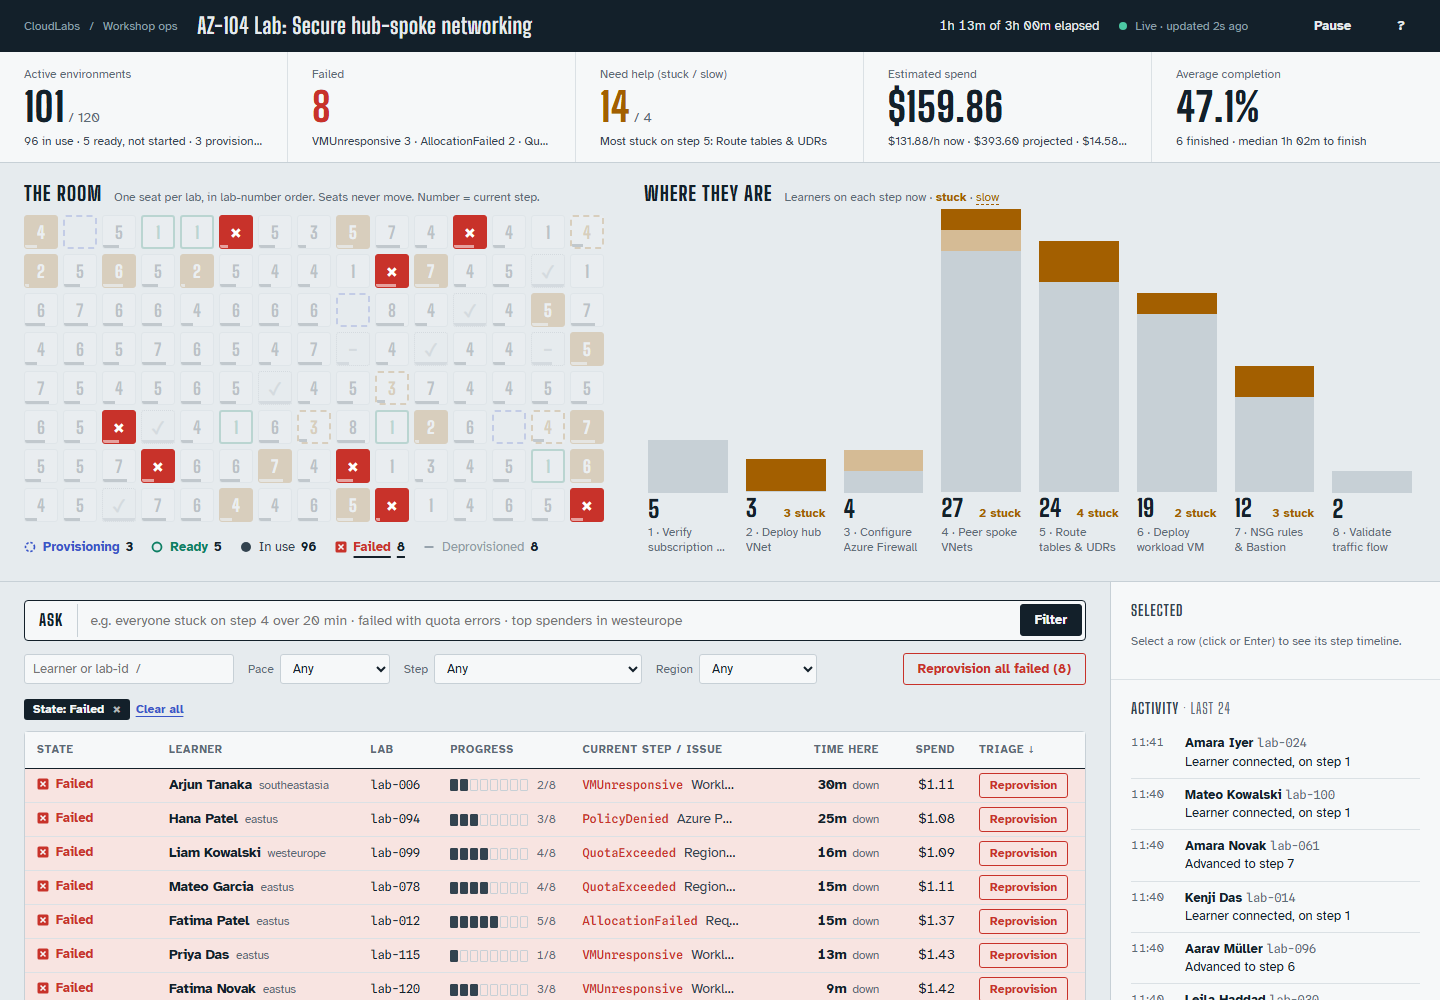
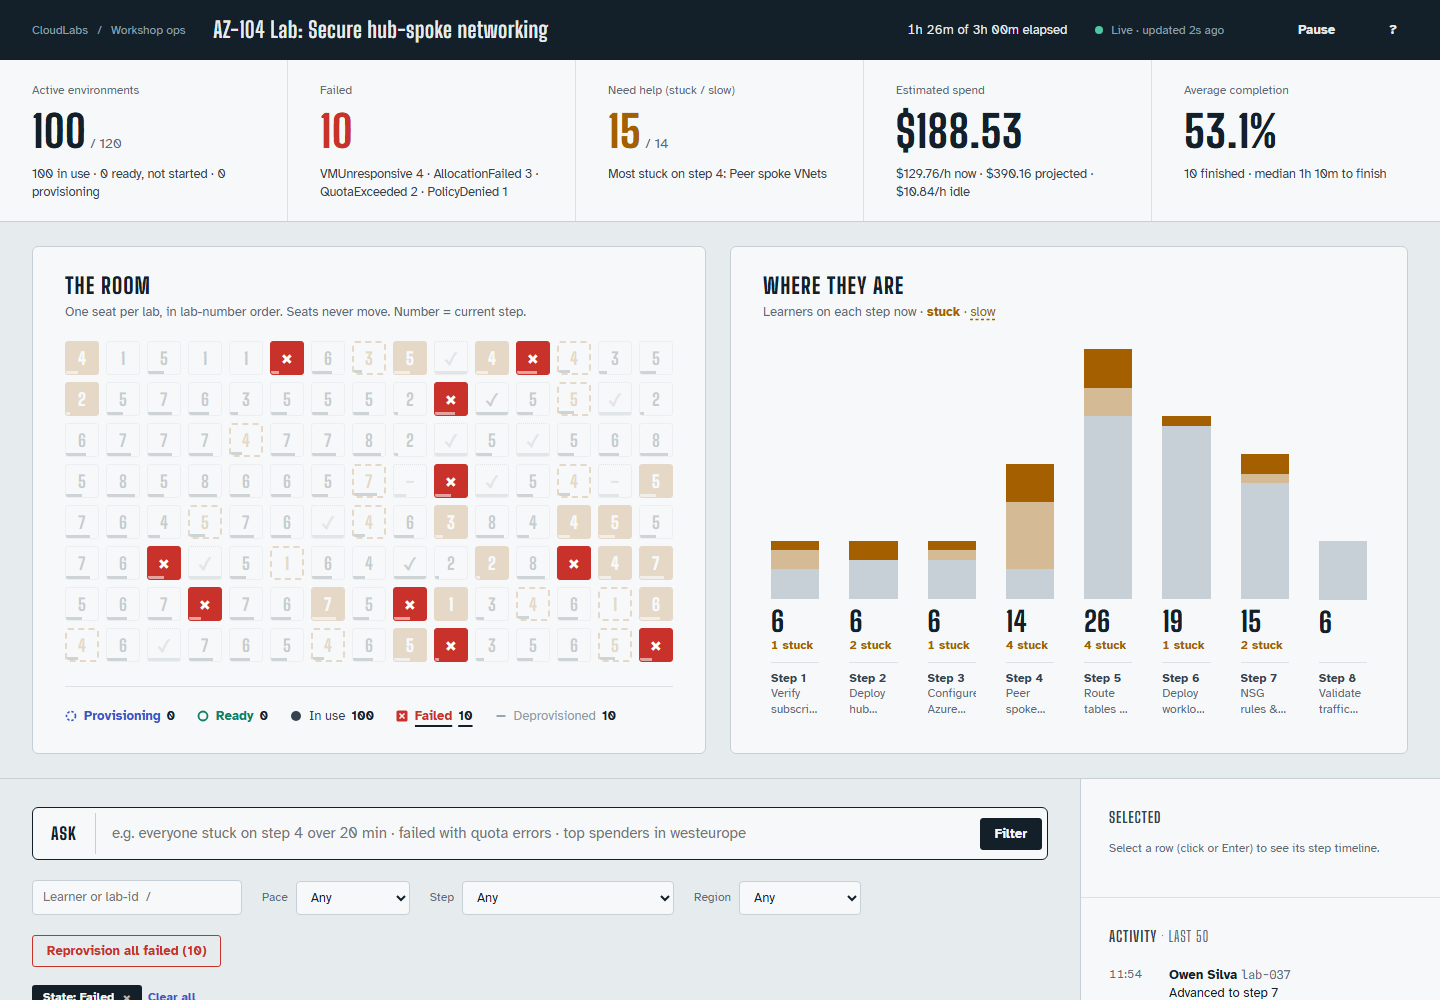
Give the dashboard room to breathe
Spacing tokens for gutters and panel gaps, room and funnel as separate
panels, stacked funnel counts and step labels, wrapping summary lines,
taller table rows, wider side panel, larger seats on wide screens.

Changed region(s): [[0.0, 0.0, 1.0, 1.0], [0.625, 0.93, 0.6562, 0.961]]

diff --git a/public/app.css b/public/app.css
@@ -31,8 +31,10 @@
   --display: "Big Shoulders Display", "Arial Narrow", sans-serif;
   --sans: "Atkinson Hyperlegible", system-ui, "Segoe UI", sans-serif;
   --mono: "Spline Sans Mono", ui-monospace, Consolas, monospace;
-  --top-h: 52px;
-  --row-h: 34px;
+  --top-h: 60px;
+  --row-h: 42px;
+  --gutter: 32px; /* page side padding */
+  --gap: 24px;    /* between panels */
   color-scheme: light;
 }
 @media (prefers-color-scheme: dark) {
@@ -63,15 +65,15 @@ td, .tnum, .clock, .metric, .fnum { font-variant-numeric: tabular-nums; }
 .sec-title, .top h1, .metric .big, .seat .g, .fnum b {
   font-family: var(--display); font-weight: 800; letter-spacing: .01em;
 }
-.sec-head { display: flex; align-items: baseline; gap: 12px; margin-bottom: 10px; flex-wrap: wrap; }
-.sec-title { margin: 0; font-size: 20px; text-transform: uppercase; letter-spacing: .05em; line-height: 1; }
-.sec-note { margin: 0; font-size: 12px; color: var(--muted); }
+.sec-head { display: flex; flex-direction: column; gap: 6px; margin-bottom: 20px; }
+.sec-title { margin: 0; font-size: 22px; text-transform: uppercase; letter-spacing: .05em; line-height: 1; }
+.sec-note { margin: 0; font-size: 13px; color: var(--muted); }
 .eyebrow { margin: 0 0 8px; font-family: var(--display); font-weight: 700; font-size: 15px; text-transform: uppercase; letter-spacing: .06em; color: var(--ink-2); }
 
 /* ---------- header: a dark control strip ---------- */
 .top {
   position: sticky; top: 0; z-index: 6; height: var(--top-h);
-  display: flex; align-items: center; gap: 20px; padding: 0 24px;
+  display: flex; align-items: center; gap: 28px; padding: 0 var(--gutter);
   background: var(--bar); color: var(--bar-ink);
 }
 .brand { font-size: 12px; color: var(--bar-muted); white-space: nowrap; }
@@ -100,13 +102,13 @@ td, .tnum, .clock, .metric, .fnum { font-variant-numeric: tabular-nums; }
 .btn.danger-outline { border-color: var(--s-failed); color: var(--s-failed); background: transparent; }
 .btn.danger-outline:hover { background: var(--s-failed); color: #fff; }
 
-.banner { display: flex; gap: 12px; align-items: center; padding: 10px 24px; font-size: 13px; background: var(--failed-tint); color: var(--s-failed); border-bottom: 1px solid var(--rule); }
+.banner { display: flex; gap: 12px; align-items: center; padding: 12px var(--gutter); font-size: 13px; background: var(--failed-tint); color: var(--s-failed); border-bottom: 1px solid var(--rule); }
 .banner .btn { padding: 2px 10px; }
 
 /* ---------- ledger ---------- */
-.ledger { display: grid; grid-template-columns: repeat(5, minmax(0, 1fr)); background: var(--paper); border-bottom: 1px solid var(--rule); min-height: 92px; }
+.ledger { display: grid; grid-template-columns: repeat(5, minmax(0, 1fr)); background: var(--paper); border-bottom: 1px solid var(--rule); min-height: 120px; }
 .metric {
-  display: flex; flex-direction: column; gap: 2px; min-width: 0; padding: 14px 24px 12px;
+  display: flex; flex-direction: column; gap: 4px; min-width: 0; padding: 22px var(--gutter) 20px;
   border: 0; border-right: 1px solid var(--rule-soft); background: none; font: inherit; color: inherit; text-align: left;
 }
 .metric:last-child { border-right: 0; }
@@ -114,18 +116,20 @@ button.metric { cursor: pointer; }
 button.metric:hover { background: var(--fog); }
 button.metric:hover .m-label::after { content: "  → filter"; color: var(--focus); }
 .metric .m-label { font-size: 12px; color: var(--muted); }
-.metric .big { font-size: 40px; line-height: 1; margin: 2px 0 4px; }
+.metric .big { font-size: 44px; line-height: 1; margin: 6px 0 8px; }
 .metric .big small { font-family: var(--sans); font-size: 14px; font-weight: 400; color: var(--muted); letter-spacing: 0; }
-.metric .sub { font-size: 12px; color: var(--ink-2); white-space: nowrap; overflow: hidden; text-overflow: ellipsis; }
+.metric .sub { font-size: 12.5px; line-height: 1.45; color: var(--ink-2); }
 .metric.alert .big { color: var(--s-failed); }
 .metric.warn .big { color: var(--stuck); }
 .metric .big.changed { animation: flash 1.4s ease-out; }
 
 /* ---------- overview: the room + the step funnel ---------- */
-.overview { display: grid; grid-template-columns: auto minmax(0, 1fr); gap: 40px; padding: 20px 24px 22px; border-bottom: 1px solid var(--rule); }
+.overview { display: grid; grid-template-columns: auto minmax(0, 1fr); gap: var(--gap); padding: var(--gap) var(--gutter); }
+.room-wrap, .funnel-wrap { background: var(--paper); border: 1px solid var(--rule); border-radius: 6px; padding: 28px 32px 26px; min-width: 0; }
+.funnel-wrap { display: flex; flex-direction: column; }
 
 /* Signature: the room. 120 seats in fixed lab-number order. */
-.room { display: grid; grid-template-columns: repeat(15, 34px); gap: 5px; }
+.room { display: grid; grid-template-columns: repeat(15, 34px); gap: 7px; }
 .seat {
   position: relative; width: 34px; height: 34px; padding: 0; overflow: hidden; cursor: pointer;
   display: grid; place-items: center; border-radius: 3px;
@@ -150,38 +154,38 @@ button.metric:hover .m-label::after { content: "  → filter"; color: var(--focu
 .seat.changed { animation: flash-outline 1.6s ease-out; }
 @keyframes flash-outline { from { box-shadow: 0 0 0 4px var(--flash); } to { box-shadow: 0 0 0 0 transparent; } }
 
-.statelegend { display: flex; flex-wrap: wrap; gap: 4px 18px; margin-top: 14px; font-size: 13px; }
+.statelegend { display: flex; flex-wrap: wrap; gap: 8px 22px; margin-top: 24px; padding-top: 18px; border-top: 1px solid var(--rule-soft); font-size: 13px; }
 .statelegend button { all: unset; cursor: pointer; display: inline-flex; gap: 6px; align-items: center; padding: 2px 0; color: var(--ink-2); }
 .statelegend button:focus-visible { outline: 2px solid var(--focus); outline-offset: 2px; }
 .statelegend button[aria-pressed="true"] { color: var(--ink); text-decoration: underline 2px; text-underline-offset: 5px; }
 .statelegend b { font-weight: 700; color: var(--ink); }
 
-.funnel { display: grid; grid-template-columns: repeat(8, minmax(0, 1fr)); gap: 10px; align-items: end; height: calc(100% - 30px); min-height: 200px; }
-.fstep { all: unset; cursor: pointer; display: grid; grid-template-rows: 1fr auto auto; gap: 4px; height: 100%; min-width: 0; padding: 4px 4px 6px; border-radius: 3px; }
-.fstep:hover { background: var(--paper); }
+.funnel { flex: 1; display: grid; grid-template-columns: repeat(8, minmax(0, 1fr)); gap: 14px; align-items: stretch; min-height: 260px; }
+.fstep { all: unset; cursor: pointer; display: grid; grid-template-rows: minmax(120px, 1fr) auto auto; gap: 8px; min-width: 0; padding: 8px 8px 10px; border-radius: 4px; }
+.fstep:hover { background: var(--fog); }
 .fstep:focus-visible { outline: 2px solid var(--focus); }
-.fstep[aria-pressed="true"] { background: var(--paper); box-shadow: inset 0 -3px 0 var(--ink); }
+.fstep[aria-pressed="true"] { background: var(--fog); box-shadow: inset 0 -3px 0 var(--ink); }
 .fbar { display: flex; flex-direction: column-reverse; justify-content: flex-start; min-height: 0; border-bottom: 1px solid var(--rule); }
 .fbar i { display: block; flex: none; background: var(--rule); transition: height .6s ease; }
 .fbar i.f-slow { background: color-mix(in srgb, var(--stuck) 40%, var(--paper)); }
 .fbar i.f-stuck { background: var(--stuck); }
-.fnum { display: flex; justify-content: space-between; align-items: baseline; gap: 4px; }
-.fnum b { font-size: 24px; line-height: 1; }
+.fnum { display: flex; flex-direction: column; align-items: flex-start; gap: 2px; min-height: 46px; }
+.fnum b { font-size: 28px; line-height: 1; }
 .fnum .st { color: var(--stuck); font-size: 12px; font-weight: 700; }
-.flabel { font-size: 12px; color: var(--muted); line-height: 1.25; display: -webkit-box; -webkit-line-clamp: 2; -webkit-box-orient: vertical; overflow: hidden; min-height: 2.5em; }
+.flabel { font-size: 12px; color: var(--muted); line-height: 1.3; padding-top: 8px; border-top: 1px solid var(--rule-soft); display: -webkit-box; -webkit-line-clamp: 3; -webkit-box-orient: vertical; overflow: hidden; min-height: 3.9em; }
 .key-stuck { color: var(--stuck); font-weight: 700; }
 .key-slow { color: var(--stuck); text-decoration: underline dashed; text-underline-offset: 3px; }
 
 /* ---------- workspace ---------- */
-.workspace { display: grid; grid-template-columns: minmax(0, 1fr) 330px; align-items: start; }
-.main { padding: 18px 24px 48px; min-width: 0; }
+.workspace { display: grid; grid-template-columns: minmax(0, 1fr) 360px; align-items: start; border-top: 1px solid var(--rule); }
+.main { padding: 28px var(--gutter) 64px; min-width: 0; }
 .side { position: sticky; top: var(--top-h); height: calc(100vh - var(--top-h)); overflow: auto; background: var(--paper); border-left: 1px solid var(--rule); }
-.side > section { padding: 18px 20px; border-bottom: 1px solid var(--rule-soft); }
+.side > section { padding: 28px; border-bottom: 1px solid var(--rule-soft); }
 
-.ask { display: flex; align-items: center; gap: 0; margin-bottom: 12px; background: var(--paper); border: 1.5px solid var(--ink); border-radius: 4px; padding: 3px 3px 3px 0; }
+.ask { display: flex; align-items: center; gap: 0; margin-bottom: 20px; background: var(--paper); border: 1.5px solid var(--ink); border-radius: 6px; padding: 5px 5px 5px 0; }
 .ask:focus-within { box-shadow: 0 0 0 3px color-mix(in srgb, var(--focus) 30%, transparent); }
-.ask-label { align-self: stretch; display: grid; place-items: center; padding: 0 14px; font-family: var(--display); font-weight: 800; font-size: 16px; text-transform: uppercase; letter-spacing: .06em; border-right: 1px solid var(--rule); }
-.ask input { flex: 1; min-width: 0; font: inherit; font-size: 14px; padding: 7px 12px; border: 0; background: transparent; color: var(--ink); }
+.ask-label { align-self: stretch; display: grid; place-items: center; padding: 0 18px; font-family: var(--display); font-weight: 800; font-size: 17px; text-transform: uppercase; letter-spacing: .06em; border-right: 1px solid var(--rule); }
+.ask input { flex: 1; min-width: 0; font: inherit; font-size: 15px; padding: 10px 16px; border: 0; background: transparent; color: var(--ink); }
 .ask input:focus { outline: none; }
 .ask .btn { background: var(--ink); border-color: var(--ink); color: var(--paper); }
 .ask .btn:hover { background: var(--ink-2); }
@@ -189,38 +193,38 @@ button.metric:hover .m-label::after { content: "  → filter"; color: var(--focu
 .ask-status:empty { display: none; }
 .ask-status.degraded { color: var(--stuck); }
 
-.toolbar { display: flex; align-items: center; gap: 14px; flex-wrap: wrap; margin-bottom: 10px; }
+.toolbar { display: flex; align-items: center; gap: 20px; flex-wrap: wrap; margin-bottom: 16px; }
 .toolbar-spacer { flex: 1; }
-.field { display: inline-flex; align-items: center; gap: 6px; font-size: 12px; color: var(--muted); }
-.field input, .field select { font: inherit; font-size: 13px; color: var(--ink); background: var(--paper); border: 1px solid var(--rule); border-radius: 3px; padding: 5px 8px; }
+.field { display: inline-flex; align-items: center; gap: 8px; font-size: 12px; color: var(--muted); }
+.field input, .field select { font: inherit; font-size: 13px; color: var(--ink); background: var(--paper); border: 1px solid var(--rule); border-radius: 4px; padding: 7px 10px; }
 .field input { width: 210px; }
 
-.chips { display: flex; flex-wrap: wrap; gap: 6px; align-items: center; min-height: 28px; margin-bottom: 8px; font-size: 12px; }
-.chip { display: inline-flex; align-items: center; gap: 2px; padding: 2px 2px 2px 9px; border-radius: 3px; background: var(--ink); color: var(--paper); font-weight: 700; }
+.chips { display: flex; flex-wrap: wrap; gap: 6px; align-items: center; min-height: 30px; margin-bottom: 14px; font-size: 12px; }
+.chip { display: inline-flex; align-items: center; gap: 2px; padding: 4px 4px 4px 11px; border-radius: 3px; background: var(--ink); color: var(--paper); font-weight: 700; }
 .chip button { all: unset; cursor: pointer; padding: 0 7px; font-size: 14px; line-height: 1; opacity: .7; }
 .chip button:hover, .chip button:focus-visible { opacity: 1; outline: 1px solid var(--paper); }
 .chip-src { color: var(--muted); font-style: italic; }
 .linkbtn { all: unset; cursor: pointer; color: var(--focus); font-weight: 700; text-decoration: underline; text-underline-offset: 3px; }
 
 /* ---------- table ---------- */
-.grid-wrap { position: relative; background: var(--paper); border: 1px solid var(--rule); border-radius: 4px; }
-.grid { width: 100%; border-collapse: collapse; table-layout: fixed; font-size: 13.5px; }
-.c-state { width: 132px; } .c-learner { width: 19%; } .c-id { width: 80px; } .c-progress { width: 132px; }
-.c-time { width: 140px; } .c-spend { width: 76px; } .c-action { width: 118px; }
+.grid-wrap { position: relative; background: var(--paper); border: 1px solid var(--rule); border-radius: 6px; }
+.grid { width: 100%; border-collapse: collapse; table-layout: fixed; font-size: 14px; }
+.c-state { width: 150px; } .c-learner { width: 19%; } .c-id { width: 100px; } .c-progress { width: 132px; }
+.c-time { width: 150px; } .c-spend { width: 90px; } .c-action { width: 136px; }
 .grid thead th { position: sticky; top: var(--top-h); z-index: 2; padding: 0; text-align: left; background: var(--paper); border-bottom: 1.5px solid var(--ink); font-size: 11px; font-weight: 700; text-transform: uppercase; letter-spacing: .07em; color: var(--muted); }
 .grid th.num, .grid td.num { text-align: right; }
-.sort { all: unset; cursor: pointer; display: block; width: 100%; box-sizing: border-box; padding: 10px 12px; }
+.sort { all: unset; cursor: pointer; display: block; width: 100%; box-sizing: border-box; padding: 14px 16px; }
 th.num .sort { text-align: right; }
 .sort:hover { color: var(--ink); }
 .sort:focus-visible { outline: 2px solid var(--focus); outline-offset: -2px; }
 th[aria-sort] { color: var(--ink); }
 th[aria-sort] .sort::after { content: " ↓"; }
 th[aria-sort="ascending"] .sort::after { content: " ↑"; }
-.grid thead th:not(:has(.sort)) { padding: 10px 12px; }
+.grid thead th:not(:has(.sort)) { padding: 14px 16px; }
 
 .grid tbody tr { height: var(--row-h); border-bottom: 1px solid var(--rule-soft); }
 .grid tbody tr:last-child { border-bottom: 0; }
-.grid td { padding: 0 12px; white-space: nowrap; overflow: hidden; text-overflow: ellipsis; }
+.grid td { padding: 0 16px; white-space: nowrap; overflow: hidden; text-overflow: ellipsis; }
 .grid tbody tr:hover, .grid tbody tr.hl { background: var(--fog); }
 .grid tbody tr:focus { outline: 2px solid var(--focus); outline-offset: -2px; }
 .grid tbody tr[aria-selected="true"] { background: var(--fog); box-shadow: inset 4px 0 0 var(--ink); }
@@ -263,30 +267,30 @@ tr.is-deprovisioned .pips i.d { background: var(--s-deprovisioned); border-color
 .tag.slow { color: var(--stuck); border: 1px dashed var(--stuck); }
 .time.stuck b { color: var(--stuck); }
 
-.skel td { padding: 0 12px; }
+.skel td { padding: 0 16px; }
 .skel span { display: block; height: 10px; border-radius: 2px; background: var(--sunk); }
 
 .state-panel { padding: 56px 24px; text-align: center; color: var(--ink-2); }
 .state-panel h3 { margin: 0 0 8px; font-family: var(--display); font-weight: 800; font-size: 24px; text-transform: uppercase; letter-spacing: .04em; color: var(--ink); }
 .state-panel p { margin: 0 0 16px; }
 .state-panel.error h3 { color: var(--s-failed); }
-.foot { margin: 10px 2px; font-size: 12px; color: var(--muted); }
+.foot { margin: 14px 2px; font-size: 12px; color: var(--muted); }
 
 /* ---------- side panel ---------- */
 .detail h3 { margin: 0; font-family: var(--display); font-weight: 800; font-size: 26px; line-height: 1.05; }
-.detail .meta { margin: 4px 0 12px; font-size: 12px; color: var(--muted); }
-.kv { display: grid; grid-template-columns: auto 1fr; gap: 4px 12px; margin: 0 0 16px; font-size: 13px; }
+.detail .meta { margin: 6px 0 18px; font-size: 12px; color: var(--muted); }
+.kv { display: grid; grid-template-columns: auto 1fr; gap: 8px 12px; margin: 0 0 24px; font-size: 13px; }
 .kv dt { color: var(--muted); }
 .kv dd { margin: 0; text-align: right; }
 .timeline { list-style: none; margin: 0 0 12px; padding: 0; font-size: 13px; }
-.timeline li { display: grid; grid-template-columns: 18px 1fr auto; gap: 6px; align-items: baseline; padding: 4px 0; border-bottom: 1px solid var(--rule-soft); }
+.timeline li { display: grid; grid-template-columns: 18px 1fr auto; gap: 8px; align-items: baseline; padding: 7px 0; border-bottom: 1px solid var(--rule-soft); }
 .timeline li.todo { color: var(--muted); }
 .timeline li.cur { font-weight: 700; }
 .timeline li .over { color: var(--stuck); font-weight: 700; }
 .failbox { margin-bottom: 14px; padding: 10px 12px; font-size: 13px; background: var(--failed-tint); border-left: 4px solid var(--s-failed); }
 
 .feed-list { list-style: none; margin: 0; padding: 0; font-size: 13px; }
-.feed-list li { display: grid; grid-template-columns: 46px 1fr; gap: 8px; padding: 7px 0; border-bottom: 1px solid var(--rule-soft); }
+.feed-list li { display: grid; grid-template-columns: 48px 1fr; gap: 12px; padding: 11px 0; border-bottom: 1px solid var(--rule-soft); }
 .feed-list time { font-size: 12px; color: var(--muted); font-variant-numeric: tabular-nums; }
 .feed-list .who { font-weight: 700; }
 .feed-list li[data-k="failed"] .what { color: var(--s-failed); font-weight: 700; }
@@ -301,9 +305,9 @@ dialog h2 { margin: 0 0 14px; font-family: var(--display); font-weight: 800; fon
 kbd { padding: 0 6px; font-family: var(--mono); font-size: 11.5px; background: var(--fog); border: 1px solid var(--rule); border-bottom-width: 2px; border-radius: 3px; }
 
 /* ---------- responsive ---------- */
-@media (max-width: 1200px) {
+@media (max-width: 1280px) {
+  :root { --gutter: 24px; }
   .overview { grid-template-columns: minmax(0, 1fr); }
-  .funnel { height: 200px; }
 }
 @media (max-width: 1100px) {
   .workspace { grid-template-columns: minmax(0, 1fr); }
@@ -319,16 +323,23 @@ kbd { padding: 0 6px; font-family: var(--mono); font-size: 11.5px; background: v
   .top h1 { flex-basis: 100%; order: -1; font-size: 19px; }
   .brand { display: none; }
   .ledger { grid-template-columns: repeat(2, minmax(0, 1fr)); }
-  .metric { padding: 12px 16px; border-bottom: 1px solid var(--rule-soft); }
+  .metric { padding: 16px; border-bottom: 1px solid var(--rule-soft); }
   .metric .big { font-size: 32px; }
-  .overview, .main { padding-left: 16px; padding-right: 16px; }
+  :root { --gutter: 16px; --gap: 16px; }
+  .room-wrap, .funnel-wrap { padding: 20px 16px; }
   .room { grid-template-columns: repeat(10, minmax(0, 1fr)); gap: 4px; }
   .seat { width: auto; height: auto; aspect-ratio: 1; }
-  .funnel { grid-template-columns: repeat(4, minmax(0, 1fr)); height: auto; }
+  .funnel { grid-template-columns: repeat(4, minmax(0, 1fr)); min-height: 0; }
   .fstep { grid-template-rows: 60px auto auto; }
   .ask-status { display: none; }
   .field input { width: 100%; }
 }
 @media (prefers-reduced-motion: reduce) {
   *, *::before, *::after { animation: none !important; transition: none !important; }
+}
+.fstep-n { display: block; font-weight: 700; color: var(--ink-2); }
+@media (min-width: 1600px) {
+  .room { grid-template-columns: repeat(15, 42px); gap: 9px; }
+  .seat { width: 42px; height: 42px; }
+  .seat .g { font-size: 20px; }
 }

diff --git a/public/app.js b/public/app.js
@@ -235,7 +235,7 @@ function renderFunnel() {
       title="${esc(b.title)} · expected ~${b.expectedMin}m · median ${dur(b.medianMin)}">
       <span class="fbar" aria-hidden="true"><i style="height:${h(ok)}"></i><i class="f-slow" style="height:${h(b.slow)}"></i><i class="f-stuck" style="height:${h(b.stuck)}"></i></span>
       <span class="fnum"><b>${b.active}</b>${b.stuck ? `<span class="st">${b.stuck} stuck</span>` : ''}</span>
-      <span class="flabel">${b.step} · ${esc(b.title)}</span>
+      <span class="flabel"><span class="fstep-n">Step ${b.step}</span>${esc(b.title)}</span>
     </button>`;
   }).join('');
 }
